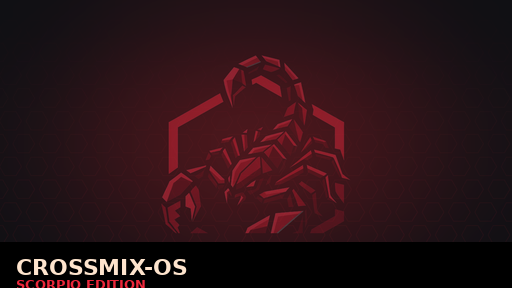
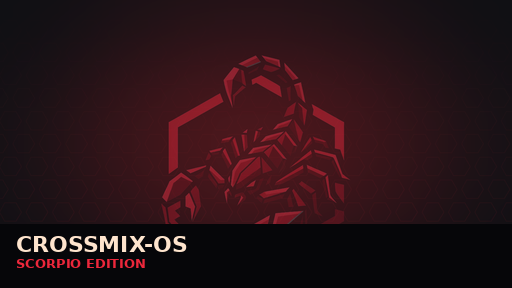
fix(#1): the theme preview caption no longer clips SCORPIO EDITION (#61)
The caption was placed with hard-coded offsets from the frame bottom, so the
13px second line landed on the edge. It is now measured with textbbox and laid
out upwards from a 20px bottom margin, which also keeps the black bar sized to
its content instead of a fixed 46px.

Changed region(s): [[0.0312, 0.75, 0.9375, 1.0]]

diff --git a/_assets/scripts/make-theme-se.py b/_assets/scripts/make-theme-se.py
@@ -190,14 +190,34 @@ def build_shutdown():
 
 
 def build_preview():
-    """512x288, the shape the theme picker shows."""
-    bg = build_bg(mark_opacity=0.45).resize((512, 288), Image.Resampling.LANCZOS)
+    """512x288, the shape the theme picker shows.
+
+    The caption block is measured and placed from the bottom up: an earlier
+    version hard-coded the offsets and SCORPIO EDITION ended up clipped by the
+    frame edge.
+    """
+    W_, H_ = 512, 288
+    bg = build_bg(mark_opacity=0.45).resize((W_, H_), Image.Resampling.LANCZOS)
     d = ImageDraw.Draw(bg)
-    d.rectangle([0, 288 - 46, 512, 288], fill=(0, 0, 0, 130))
-    f = ImageFont.truetype(FONT, 22)
-    d.text((16, 288 - 34), "CROSSMIX-OS", font=f, fill=CREAM)
-    f2 = ImageFont.truetype(FONT, 13)
-    d.text((16, 288 - 12), "SCORPIO EDITION", font=f2, fill=RED)
+
+    f_title = ImageFont.truetype(FONT, 22)
+    f_sub = ImageFont.truetype(FONT, 13)
+
+    tb = d.textbbox((0, 0), "CROSSMIX-OS", font=f_title)
+    sb = d.textbbox((0, 0), "SCORPIO EDITION", font=f_sub)
+    title_h = tb[3] - tb[1]
+    sub_h = sb[3] - sb[1]
+
+    margin = 20            # gap below the last line
+    gap = 7                # gap between the two lines
+    sub_y = H_ - margin - sub_h
+    title_y = sub_y - gap - title_h
+
+    bar_top = title_y - 12
+    d.rectangle([0, bar_top, W_, H_], fill=(6, 6, 9))
+
+    d.text((16, title_y - tb[1]), "CROSSMIX-OS", font=f_title, fill=CREAM)
+    d.text((16, sub_y - sb[1]), "SCORPIO EDITION", font=f_sub, fill=RED)
     return bg
 
 
